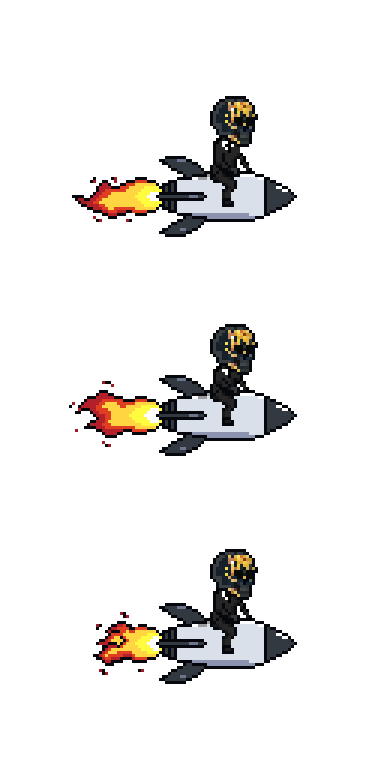
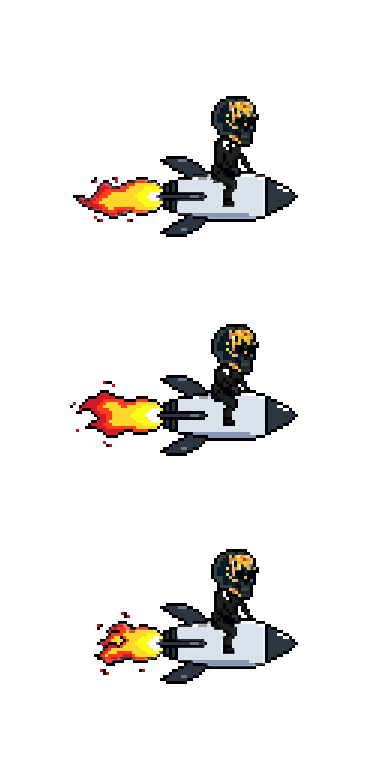
смена модели мори

diff --git a/game-objects.js b/game-objects.js
@@ -99,9 +99,9 @@ foreground = {
 // Ракета (оптимизированная)
 bird = {
     animation: [
-        {spriteX: 0, spriteY: 0, spriteW: 180, spriteH: 136},
-        {spriteX: 0, spriteY: 174, spriteW: 180, spriteH: 136},
-        {spriteX: 0, spriteY: 342, spriteW: 180, spriteH: 136}
+        {spriteX: 71 - 5, spriteY: 95, spriteW: 227, spriteH: 143},   // 1 кадр (сдвинут на 5п влево)
+        {spriteX: 69, spriteY: 324, spriteW: 229, spriteH: 132},         // 2 кадр
+        {spriteX: 91 - 5, spriteY: 549, spriteW: 206, spriteH: 136}      // 3 кадр (сдвинут на 5п влево)
     ],
     x: 0, y: 0, w: 0, h: 0,
     frame: 0, gravity: 0, jump: 0, speed: 0, rotation: 0,
@@ -122,19 +122,20 @@ bird = {
     draw: function() {
         if (!birdVisible) return;
         if (typeof explosionActive !== 'undefined' && explosionActive) return;
-        let bird = this.animation[this.frame];
+        let birdFrame = this.animation[this.frame];
         ctx.save();
-        
         let wobbleX = Math.sin(frames * this.wobbleSpeed) * this.wobbleAmount;
         if (this.engineThrust > 0) {
             wobbleX += Math.sin(frames * 0.3) * this.wobbleAmount * 0.5;
         }
-        
         ctx.translate(this.x + wobbleX, this.y);
         ctx.rotate(this.rotation);
-
         if(state.current != state.home) {
-            ctx.drawImage(mori_model_sprite, bird.spriteX, bird.spriteY, bird.spriteW, bird.spriteH, -this.w/2, -this.h/2, this.w, this.h * 1.452);
+            ctx.drawImage(
+                mori_model_sprite,
+                birdFrame.spriteX, birdFrame.spriteY, birdFrame.spriteW, birdFrame.spriteH,
+                -this.w/2, -this.h/2, this.w, this.h
+            );
         }
         ctx.restore();
     },
@@ -175,7 +176,7 @@ bird = {
         
         // Анимация кадров птицы по времени
         this.frameTime += delta;
-        let framePeriod = 0.08; // 0.08 сек = 12.5 кадров/сек (подберите под нужную скорость)
+        let framePeriod = 0.104; // 0.08 сек * 1.3 = 0.104 сек (замедление на 30%)
         if (this.frameTime > framePeriod) {
             this.frame = (this.frame + 1) % this.animation.length;
             this.frameTime = 0;
@@ -659,18 +660,13 @@ function getOstankinoCollisionRects(ostankino) {
 
 // === ЗОНЫ КОЛЛИЗИИ ДЛЯ ГЛАВНОГО ГЕРОЯ ===
 bird.collisionZones = [
-  { 
-    get x() { return 94 * getGameScale(); },
-    get y() { return 0 * getGameScale(); },
-    get w() { return 61 * getGameScale(); },
-    get h() { return 70 * getGameScale(); }
-  },
-  { 
-    get x() { return 25 * getGameScale(); },
-    get y() { return 69 * getGameScale(); },
-    get w() { return 154 * getGameScale(); },
-    get h() { return 66 * getGameScale(); }
-  }
+  { x: (209-69-30)*0.9, y: (323-324)*0.9 + 20, w: 50*0.9, h: 65*0.9 - 10 }, // 1
+  { x: (154-69-30)*0.9, y: (373-324)*0.9 + 20 - 10, w: 55*0.9, h: 83*0.9 - 10 - 10 }, // 2
+  { x: (210-69-30)*0.9, y: (388-324)*0.9, w: 59*0.9, h: 53*0.9 }, // 3
+  { x: (269-69-30)*0.9, y: (398-324)*0.9, w: 7*0.9, h: 34*0.9 },  // 4
+  { x: (275-69-30)*0.9, y: (401-324)*0.9, w: 7*0.9, h: 28*0.9 },  // 5
+  { x: (282-69-30)*0.9, y: (404-324)*0.9, w: 7*0.9, h: 22*0.9 },  // 6
+  { x: (288-69-30)*0.9, y: (408-324)*0.9, w: 8*0.9, h: 13*0.9 }   // 7
 ];
 // === КОНЕЦ ДОБАВЛЕНИЯ ===
 
@@ -1324,3 +1320,7 @@ const coins = {
         this.spawnInterval = 2 + Math.random() * 2;
     }
 };
+
+// === ЗАМЕНА СПРАЙТА ГЛАВНОГО ГЕРОЯ ===
+const mori_model_sprite = new Image();
+mori_model_sprite.src = "img/separated/CharacterNew.png";
